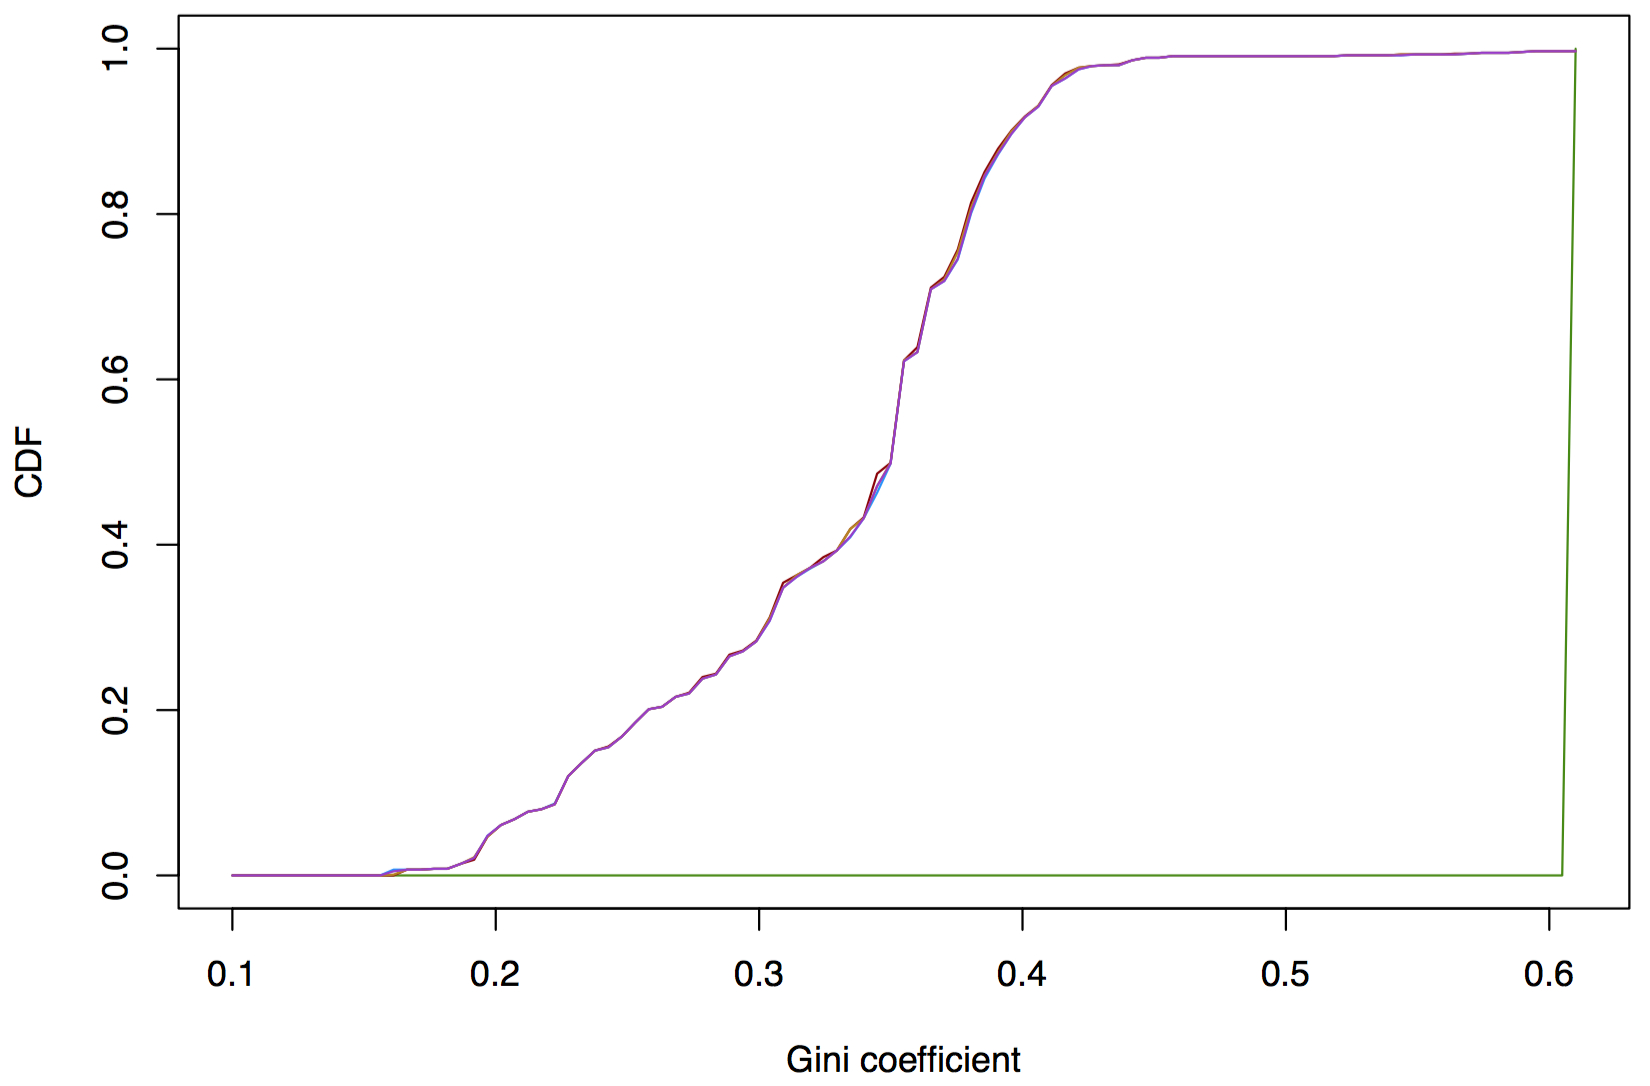
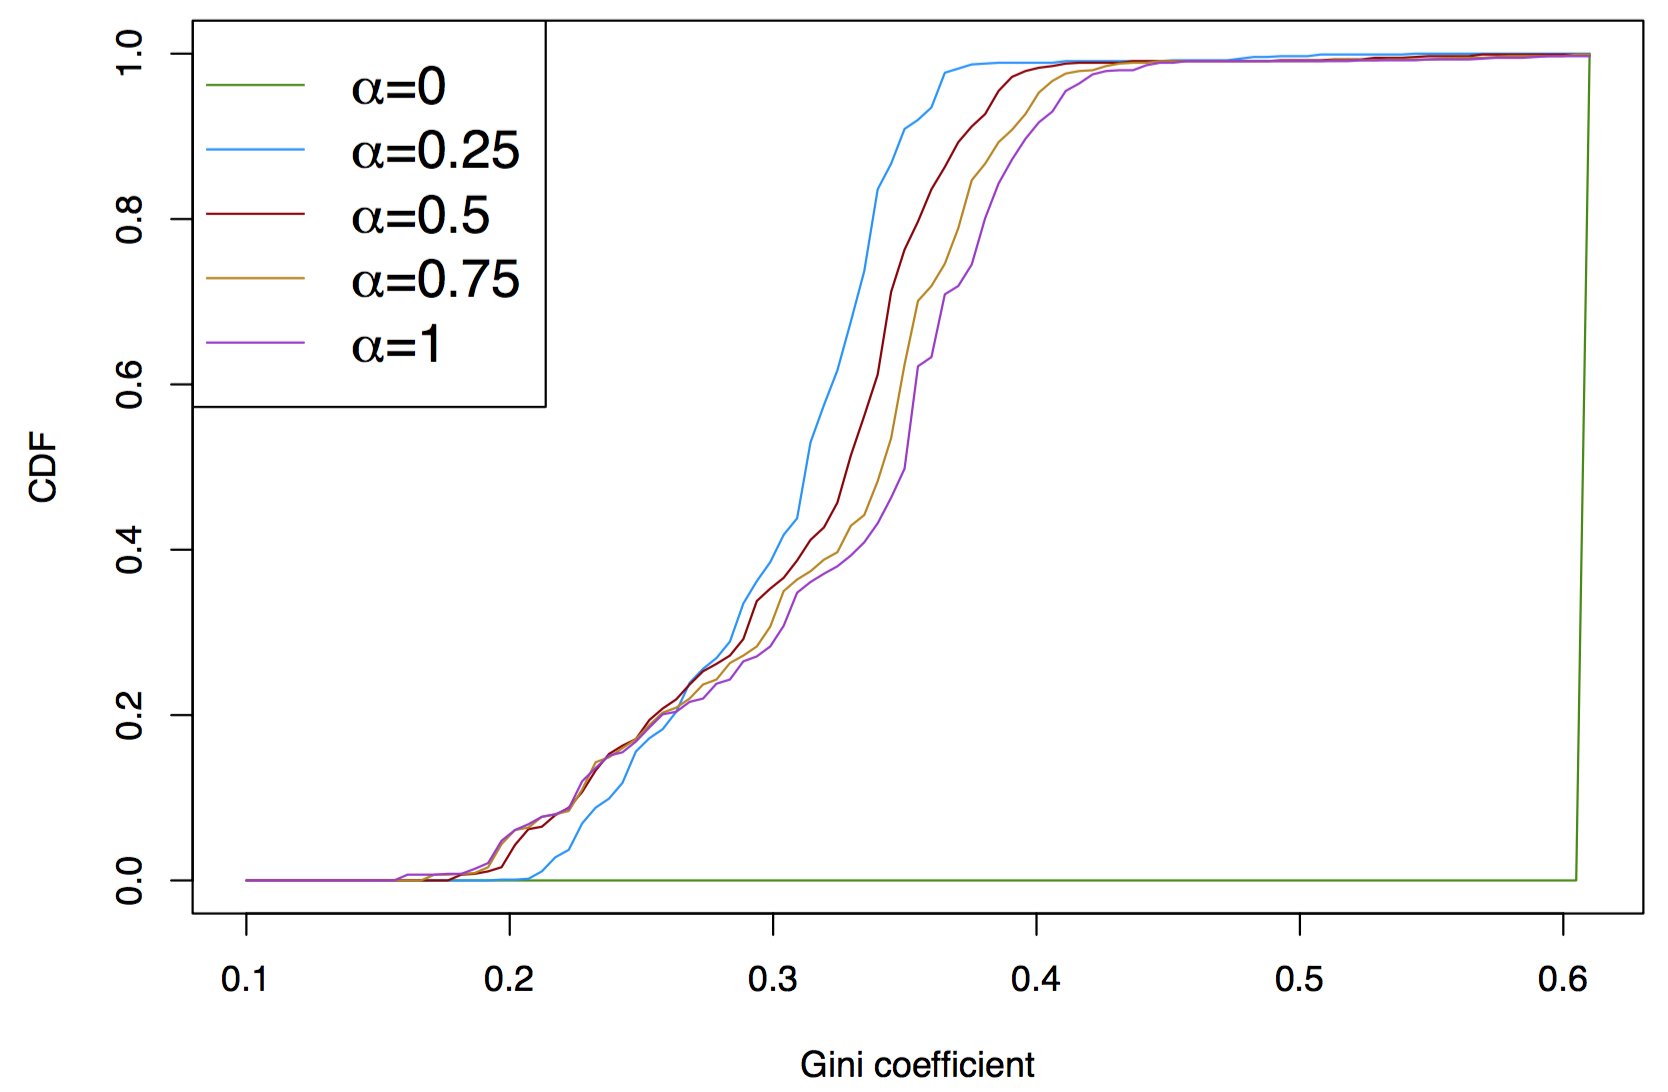
Update proactive section

diff --git a/usenix/proactive.tex b/usenix/proactive.tex
@@ -1,38 +1,65 @@
 \section{Proactive Approaches}
-We take three different proactive approaches to counter RAPTOR attacks: 1) convincing relay operators to announce the relay in a /24 prefix, 2) analyzing the feasibility of having a static route to guard relays, and 3) introducing a new path selection algorithm that minimizes the likelihood that a client sees a hijacked route in the case that her guard is hijacked.
+Proactive approaches aim at lowering the possibility of Tor users being affected by an active BGP routing attack on Tor relays. Network-level adversaries can announce a more-specific prefix to hijack the traffic between the client and the Tor guard relay; further more, the adversaries can also announce an equally-specific prefix to achieve the same goal for a portion of Tor clients on the internet. To counter these two attack strategies, we propose two methods, respectively: 1) convincing relay operators to announce the relay in a /24 prefix to defend against a more-specific prefix attack, 2) introducing a new Tor guard relay selection algorithm that minimizes the likelihood that a Tor client sees a hijacked route in the case that her guard is hijacked by an equally-specific prefix attack.
 
 \subsection{Using /24 Prefixes}
+\label{subsec:24prefix}
 
 Sun \emph{et al.} \cite{sun2015raptor} recently found that more than 90\% of BGP prefixes hosting relays are
-shorter than /24, making them vulnerable to a more-specific BGP prefix attack. Thus, one quick way to make Tor relays more resilient to such active routing attacks is to announce /24 prefix covering Tor relays. In order to make real world impact of this approach, we plan to start a campaign by contacting network operators whose prefixes contain Tor relays, and asking them to announce a more specific /24 prefix covering the relay. 
+shorter than /24, making them vulnerable to a more-specific BGP prefix attack. Thus, one quick way to make Tor relays more resilient to such active routing attacks is to announce /24 prefix covering Tor relays. In order to make real world impact of this approach, we start a campaign by contacting network operators whose prefixes contain Tor relays, and asking them to announce a more specific /24 prefix covering the relay. 
+
+We start by cooperating with Princeton University, which contains a Tor relay under a /16 prefix. 
 
 \subsection{Guard Relay Selection}
 
-Guard relay is at an important position that it has direct connection with the Tor client. Thus, securing the guard relay would be our first step. It has been shown that AS-level adversaries can launch a more-specific prefix attack to intercept the Tor traffic from the guard relay to the malicious AS \cite{sun2015raptor}, and this can be potentially prevented by advertising /24 prefixes. However, even if the guard relay belongs to a /24 prefix, it is still subject to an equally-specific prefix attack. Unlike more-specific attacks which spread through the whole internet, equally-specific attacks can only affect connections within a small range - i.e., ASes that are within a certain number of hops away, depending on the influence of the announcing AS. Thus, picking a guard relay that is relatively close to the client AS could make it more resilient to such equally-specific attack.
+Guard relay is at an important position that it has direct connection with the Tor client. It has been shown that network-level adversaries can launch a more-specific BGP prefix attack to hijack the Tor traffic from the guard relay to the malicious AS \cite{sun2015raptor}, and this can be potentially prevented by advertising /24 prefixes, as discussed in Section ~\ref{subsec:24prefix}. However, even if the guard relay belongs to a /24 prefix, it is still subject to an equally-specific prefix attack. Unlike more-specific attacks which spread through the whole internet, equally-specific attacks can only affect connections within a small range - i.e., ASes that have more preferred paths to the hijacking AS than the true origin AS. Thus, picking a Tor guard relay that has relatively high AS resiliency against such equally-specific attacks could protect Tor clients from being affected and deanonymized by network-level adversaries. Therefore, we propose a new guard relay selection algorithm that incorporates this aspect.
 
-On the other hand, we also don't want to pick a guard relay that is too close - in an extreme case, picking a guard within the same AS as the client will reveal client location to the adversary. 
-
-Therefore, we propose a new path selection algorithm that incorporates this aspect, picking a guard relay that satisfies the optimal balance between resilience to routing attacks and privacy protection. 
-
-Recall from Section 2 that we sum up the resiliency from \emph{each} source AS to obtain the total resiliency for the Tor-related ASes. However, from the perspective of a Tor client, the client would only care about the resiliency of a Tor-related AS from where the client is located as the source AS instead of the total resiliency. Thus, we propose guard relay selection algorithm as following:
-
+\subsubsection{Design Goals}
 \begin{enumerate}
-\item Upon initiating the Tor connection and before selecting a guard relay, the Tor client will download the latest AS topology (<700KB if compressed) along with the Tor consensus data.
-\item The Tor client will run the resiliency calculation from the source AS where he is located to all ASes which contain Tor guard relays. By running the resiliency calculation locally at the client, it ensures that the location of the client will not be revealed to any outside servers. 
-\item Tor relay selection has been bandwidth-aware and prefers high bandwidth relays. We will still take into account the bandwidth, and offer the users a tunable parameter $\alpha$ in the selection. Each relay $i$ will be assigned a weight as:
+\item \emph{Deal with the possibility of prefix hijacks.} This is the main goal of the new guard relay selection algorithm. The algorithm computes the AS resiliency against prefix hijacks of all Tor guard relays from the client source AS, and prefers the ones that have higher resiliencies, minimizing the likelihood that the client would be affected by a prefix hijack on her guard relay. 
+\item \emph{Protect the anonymity and privacy of Tor clients.} The algorithm should provide a good variance in its probabilities of selecting relays, i.e., avoid favoring certain relays much more than all other ones. Also, the algorithm should not expose the Tor clients to new attacks, such as fingerprinting attacks which might deanonymize the clients by observing their relay selection preferences. 
+\item \emph{Load balance Tor traffic.} The algorithm should incorporate relay bandwidth into selection decision and avoid causing excessive traffic congestion on low bandwidth relays. 
+\item \emph{Performance overhead.} The algorithm should have a reasonable computation overhead over the vanilla Tor algorithm when bootstrapping, and fast page load time using its constructed circuit of relays. 
+\end{enumerate}
+
+\subsubsection{Minimize the possibility of being affected by prefix hijacks}
+
+Recall from Section ~\ref{hijack_methodology} that we sum up the resiliency from \emph{each} source AS to obtain the total resiliency for the Tor-related ASes. However, from the perspective of a Tor client, the client would only care about the resiliency of a Tor-related AS from where the client is located as the source AS instead of the total resiliency. Thus, we use Algorithm ~\ref{algo:calcres} to calculate resiliency $R(i)$ of each Tor-related AS $i$, from the client AS $t$. 
+
+Tor relay selection has been bandwidth-aware and prefers high bandwidth relays. The probability of each relay $i$ being chosen is based on its bandwidth $B(i)$. Thus, in order to still provide clients with the load balancing option of Tor bandwidths, we offer a tunable parameter $\alpha$ in the relay selection algorithm combining AS resiliency $R(i)$ and bandwidth $B(i)$. Each relay $i$ will be assigned a weight as following:
 \begin{equation*}
 W(i) = \alpha \times R(i) + (1 - \alpha) \times B(i)
 \end{equation*}
-in which $R(i)$ is the resiliency calculated from the previous step and $B(i)$ is the relay bandwidth obtained from Tor consensus. When $\alpha$ is set to $0$, the relay selection becomes the same as bandwidth-only selection. 
-\item If we simply select the set of guard relays based on the probability of $relay\_weight/total\_weight$, an adversary can potentially run a relay that is close enough to the Tor client, such that it has high resiliency from the client AS as the source, and thus obtains high probability of being chosen. Therefore, we will first select a cluster of $m + \alpha \cdot g \cdot (N - m)$ relays, in which $m$ is the minimum number of relays needed (i.e., 3), $N$ is the total number of relays and $g$ is a configurable parameter indicating the maximum percentage of additional relays we want to pick into the cluster. Then, we will pick the set of guard relays at random from the cluster. Note that when $g$ is set to $0$, then no randomization will be performed, while if $g$ is set to $1$, all guard relays will be picked randomly regardless of bandwidth or resiliency. We will evaluate how different values of $g$ may impact the performance. 
-\item Finally, after selecting the set of entry guard relays, the remaining part of the circuit construction process stays the same as it is in Tor. 
+Note that, when $\alpha$ is set to $0$, the relay selection becomes the same as bandwidth-only selection; while when $\alpha$ is set to $1$, the selection becomes resiliency-only selection. 
+
+\subsubsection{Protect the anonymity of clients}
+
+If we simply select the set of guard relays based on the probability of $relay\_weight/total\_weight$, an adversary can potentially run a relay that is close enough to the Tor client, such that it has high resiliency from the client AS as the source, and thus obtains high probability of being chosen. Further more, the Tor client could also be susceptible to fingerprinting attacks due to the differences in relay selection probabilities based on AS-location of the client. An adversaries that can observe the client for a long enough time may be able to infer the AS-location of the client based on its observed relay selection choices. Thus, we need to take into account these potential vulnerabilities and protect the anonymity of clients. 
+
+Instead of selecting relay directly based on its weight, we will first select a cluster of 
+\begin{equation*}
+m + \alpha \cdot g \cdot (N - m)
+\end{equation*}
+number of relays, in which $m$ is the minimum number of relays needed (i.e., 1 for single guard and 3 for multiple guards), $N$ is the total number of relays and $g$ is a configurable parameter indicating the maximum percentage of additional relays we want to pick into the cluster. Then, we will pick the guard relay(s) at random from the cluster. Note that when $g$ is set to $0$, then no additional randomization will be performed, while if $g$ is set to $1$, all guard relays will be picked randomly regardless of bandwidth or resiliency. We will evaluate how different values of $g$ may impact the security and anonymity.
+
+\subsubsection{Implementation on Tor}
+Mapping the IP addresses of the Tor client and Tor relays to ASN would be necessary before we can compute AS resiliency. In order to preserve the anonymity of the Tor client and not reveal its location to outside servers or anyone who can observe the its communications, the client will perform the IP to ASN mapping locally by utilizing the Maxmind ASN database (citation here). Note that the vanilla Tor client also uses the Maxmind GeoIP database for IP to Country mapping. In addition, the client will use the AS topology database from CAIDA (citation here) for AS-level path inference in the resiliency calculation. 
+
+If the Tor client specifies in the torrc configuration file that the AS resiliency-aware guard relay selection is preferred, and supplies an $\alpha$ value as the tunable parameter, the following procedure will be invoked:
+
+\begin{enumerate}
+\item If the Maxmind ASN file and AS topology file have not been cached, the Tor client will download the two file from Maxmind and CAIDA, respectively, and save them in the local data directory. 
+\item The Tor client will perform IP to ASN mapping, and compute the AS resiliency of all candidate relays from the client AS as the source AS. 
+\item The Tor client will compute a weight for each candidate relay using formula $W(i) = \alpha \times R(i) + (1 - \alpha) \times B(i)$. 
+\item The Tor client will select a cluster of $m + \alpha \cdot g \cdot (N - m)$ relays based on their weights, and then randomly select the guard relay(s) from the cluster. 
+\item The Tor client will proceed with the path selection. The remaining part of the circuit construction process stays the same as it is in Tor. 
 \end{enumerate}
 
 \subsection{Relay Selection Evaluation}
 
 We evaluate the AS resilience based relay selection from performance and security perspectives. 
 
-\textbf{Performance Evaluation}\\
+\subsubsection{Performance Evaluation}
+
 First, we evaluate the runtime of the AS resilience calculation given a source AS. We pick $1000$ ASes randomly as the source AS, and record how much time it takes each of them to complete the calculation. Figure ~\ref{fig_ascal} show the CDF of the runtime of AS resilience calculation. Most of the source ASes finish within $0.6$ second. 
 
 \begin{figure}[ht!]
@@ -41,8 +68,11 @@ First, we evaluate the runtime of the AS resilience calculation given a source A
 \caption{Runtime of AS resilience calculation from a given source AS \label{fig_ascal}}
 \end{figure}
 
-\textbf{Security Evaluation}\\
-Next, we evaluate the security aspect of the relay selection. We first evaluate the relay selection variance in entropy without doing the clustering in step 4. We use the Gini coefficient as the entropy evaluation metric, as it has been used in previous work to measure anonymity selection in Tor ~\cite{akhoondi2012lastor}. We evaluate five values of $\alpha: \{0, 0.25, 0.5, 0.75, 1\}$. Note that when $\alpha = 0$, it is equivalent to bandwidth-based selection. Figure ~\ref{fig_gini} shows the result. The green line to the right is when $\alpha = 0$, so it's solely based on bandwidth resulting in a Gini coefficient of $0.607$ for all source ASes. It is interesting that the Gini coefficients for the other four $\alpha$ values which involve resilience-based selection are very similar, all with much lower Gini coefficients (higher entropy and lower skew in relay selection probability) than bandwidth-based selection. 
+[NOTE: more evaluation here on Shadow and real world run]
+
+\subsubsection{Security Evaluation}
+
+\textbf{Relay selection variance} in entropy can be evaluated using Gini coefficient as the entropy evaluation metric, as it has been used in previous work to measure anonymity selection in Tor ~\cite{akhoondi2012lastor}. We first evaluate it without doing the clustering, for five values of $\alpha: \{0, 0.25, 0.5, 0.75, 1\}$ with $1000$ randomly selected ASes as source AS. Note that when $\alpha = 0$, it is equivalent to bandwidth-based selection. Figure ~\ref{fig_gini} shows the result. The green line to the right is when $\alpha = 0$, so it's solely based on bandwidth resulting in a Gini coefficient of $0.607$ for all source ASes. 
 
 \begin{figure}[ht!]
 \centering
@@ -50,6 +80,17 @@ Next, we evaluate the security aspect of the relay selection. We first evaluate 
 \caption{Gini coefficients with different $\alpha$ values \label{fig_gini}}
 \end{figure}
 
+The Gini coefficients for the other four $\alpha$ values which involve resilience-based selection are much lower than bandwidth-based selection, meaning that there is higher entropy and lower skew in probabilities of selecting any particular relay. However, the variance in relay selection probability \emph{across} different source ASes is bigger than bandwidth-only: when $\alpha = 0$, all sources ASes have the same gini coefficient of $0.607$, while for other $\alpha$ values, the gini coefficient could vary from approximately $0.2$ to $0.4$, depending on the source AS. 
 
+[NOTE: more evaluation on effect of g here]\\
 
+\textbf{Probability of being affected by a hijack attack} is evaluated by the sum of \emph{Probability(choose relay $i$) * Probability(client is affected if relay $i$ is hijacked)} for all candidate relay $i$. Again, we first evaluate it without doing the clustering, for five values of $\alpha: \{0, 0.25, 0.5, 0.75, 1\}$ with $1000$ randomly selected ASes as source AS. Figure ~\ref{fig_attack} shows the result. 
+
+\begin{figure}[ht!]
+\centering
+\includegraphics[width=80mm]{figure/attack}
+\caption{Attack Probability with different $\alpha$ values \label{fig_attack}}
+\end{figure}
+
+We can see that $\alpha=1$ has the lowest probability of being affected by an attack, while it's pretty close to other $\alpha$ values. All of them have much lower probability compared to bandwidth-only selection. 
 
